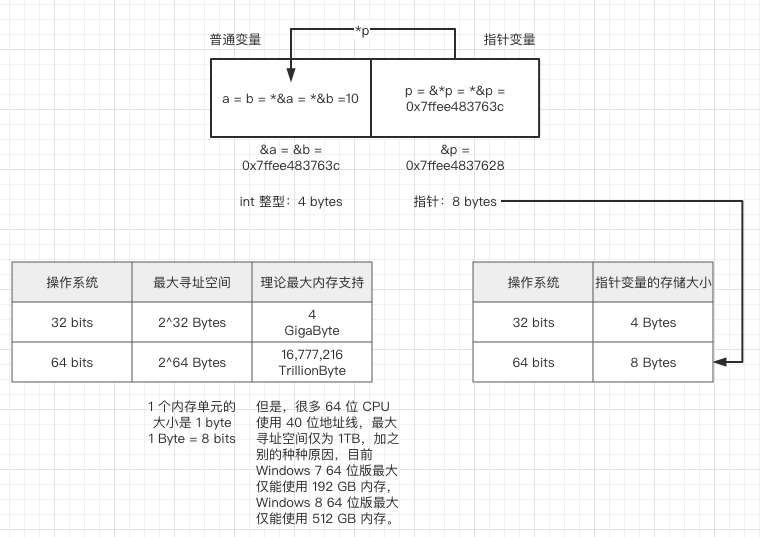
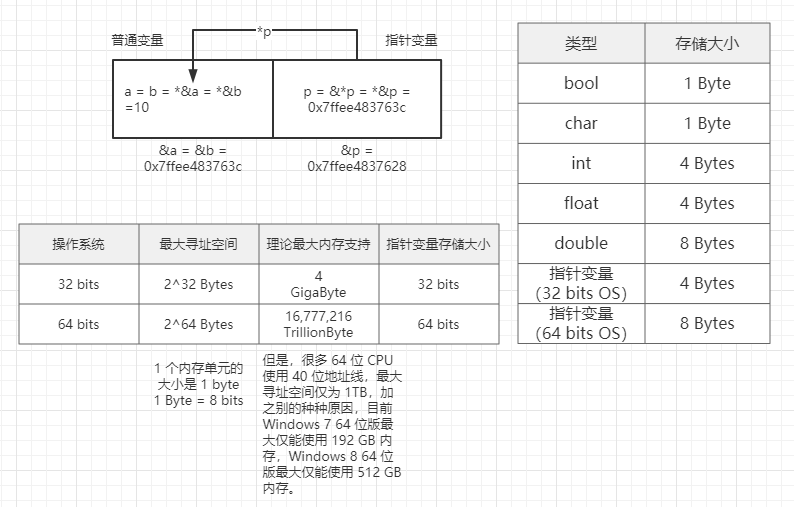
补充 C++ 指针

diff --git a/source/_posts/cpp-pointer-and-reference.md b/source/_posts/cpp-pointer-and-reference.md
@@ -47,8 +47,8 @@ int &ref;  // declaration of reference variable 'ref' requires an initializer
 
 | 操作系统 | 指针变量的存储大小 |
 | -------- | ------------------ |
-| 32 位    | 4 个字节           |
-| 64 位    | 8 个字节           |
+| 32 bits  | 4 Bytes            |
+| 64 bits  | 8 Bytes            |
 
 本机为 64 位操作系统，验证如下：
 
